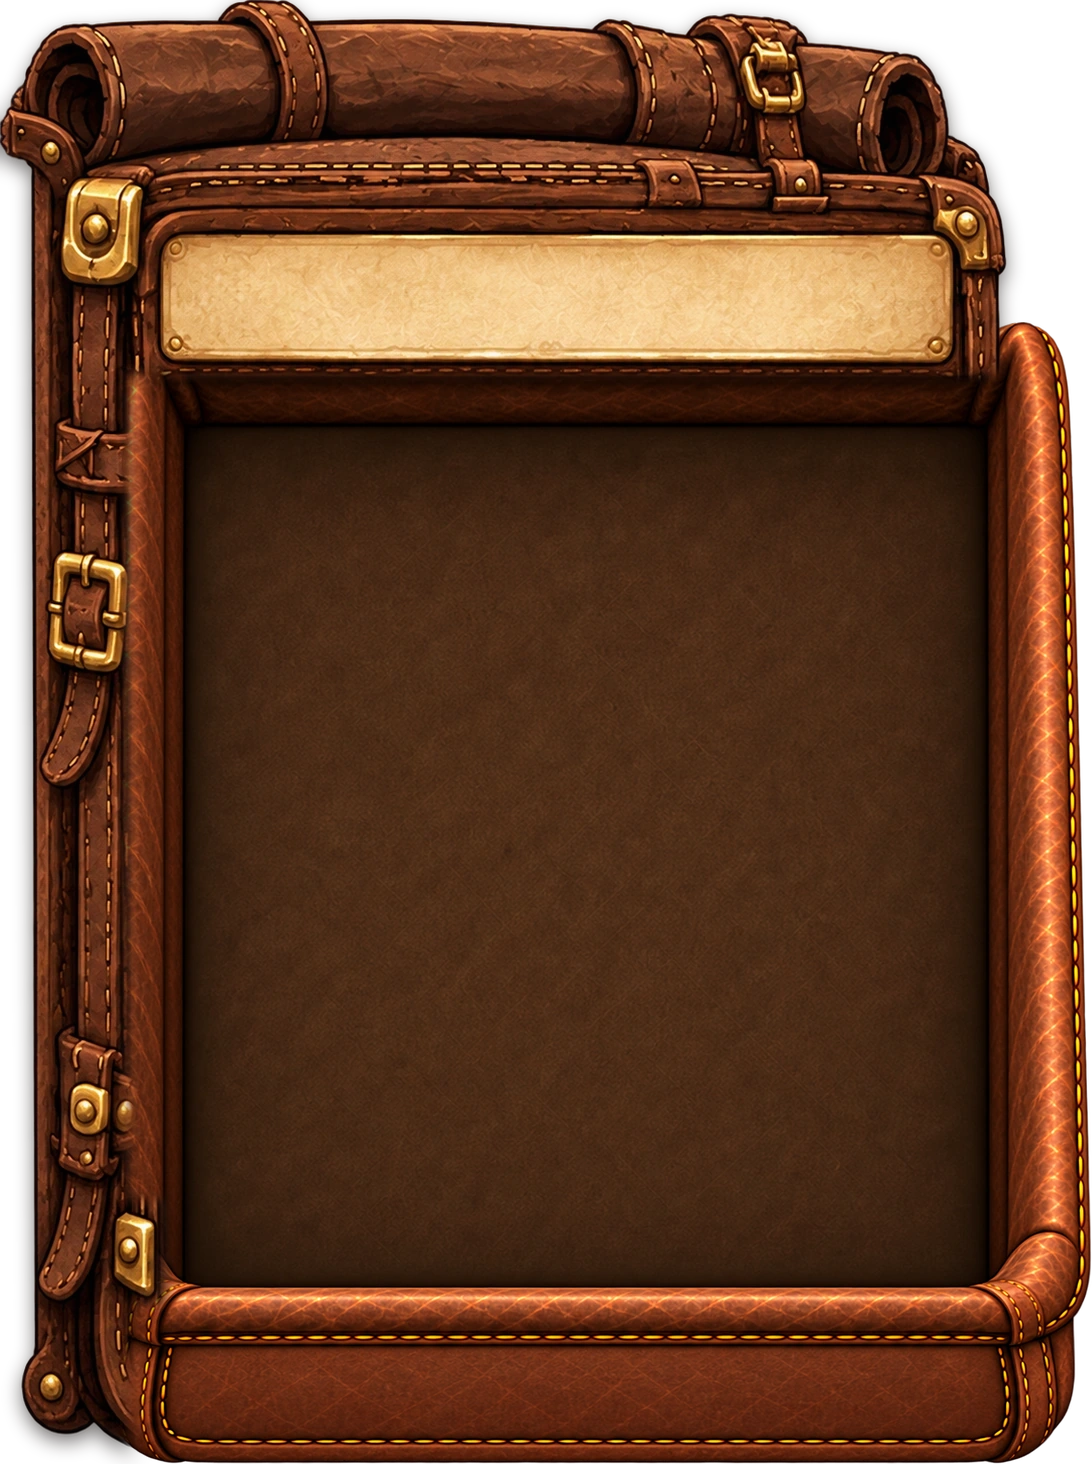
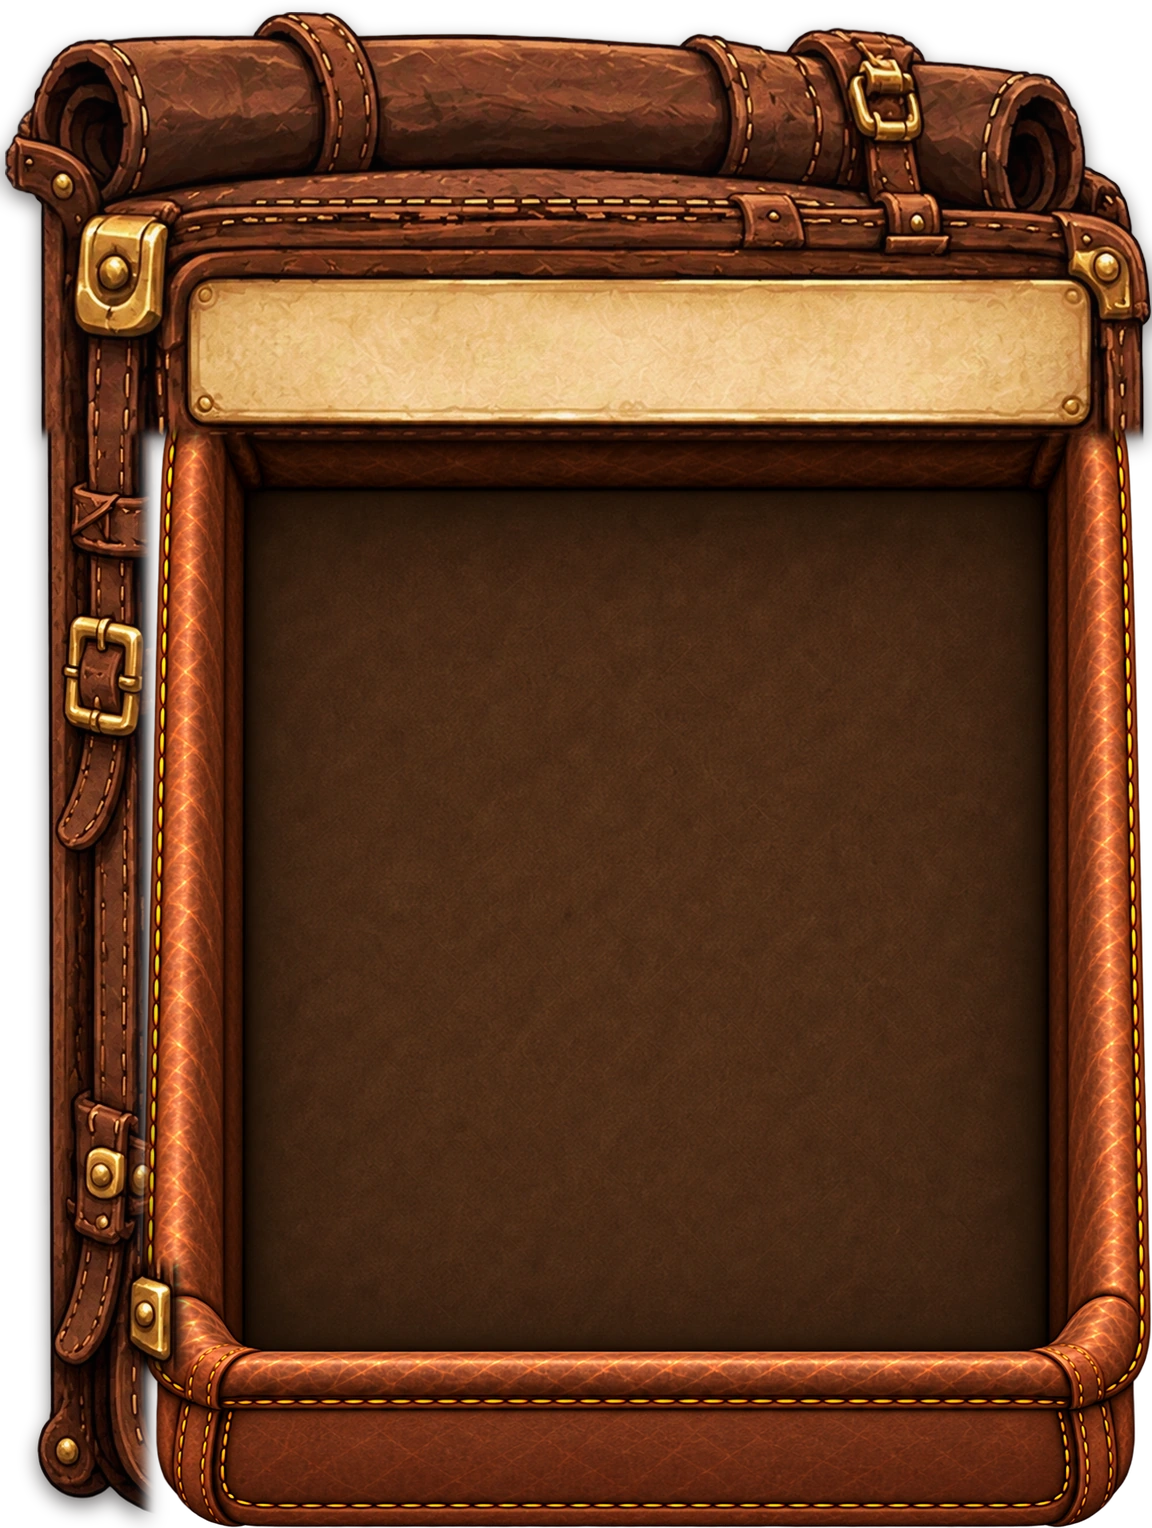
v378: backpack header scaled to meet the body's stitching, body moved clear of the spine
Claude-Session: https://claude.ai/code/session_01VobLTE1x2bdEWSaM1Fw7Gx

diff --git a/index.html b/index.html
@@ -383,16 +383,20 @@ body:not(.touch):not(.building) #bar .slot .cdn { left: 8px; top: 8px; width: 76
    second mockup) */
 #inv { position: fixed; inset: 0; z-index: 5; pointer-events: none; -webkit-user-select: none; user-select: none; }
 #inv > section, #inv #invInfo { pointer-events: auto; }
-#invGroup { left: calc(16px * var(--ui)); top: calc(56px * var(--ui)); width: 944px; height: 732px; transform: scale(var(--ui)); transform-origin: top left; }
+#invGroup { left: calc(16px * var(--ui)); top: calc(56px * var(--ui)); width: 966px; height: 732px; transform: scale(var(--ui)); transform-origin: top left; }
 #invGroup .folio { position: absolute; left: 0; top: 68px; width: 450px; height: 664px; z-index: 1; isolation: isolate; }
-#invGroup .backpack { position: absolute; left: 398px; top: 0; width: 546px; height: 732px; z-index: 2; isolation: isolate; }
+#invGroup .backpack { position: absolute; left: 398px; top: 0; width: 568px; height: 732px; z-index: 2; isolation: isolate; }
 .invDrag { touch-action: none; }
 .folio-title { left: 48px; top: 42px; width: 328px; text-align: center; }
-.backpack-title { left: 126px; top: 134px; width: 196px; }
+/* (v378, Jordan: the header and bedroll scaled up 1.14 about the header's bottom-left strap, backpack-local 40,186, so
+   its right stitching meets the body's; the body moved 22px right of the spine so its left stitching shows. The
+   shell image reaches 8px left of the backpack and 32px over it. Header controls scaled the same.) */
+#invGroup .backpack .shell { inset: auto; left: -8px; top: -32px; width: 576px; height: 764px; }
+.backpack-title { left: 138px; top: 126.7px; width: 223px; font-size: 31.9px !important; line-height: 52.4px !important; }
 .folio .close { left: 365px; top: 32px; }
-.backpack .close { left: 440px; top: 140px; }
-.crest-pack { position: absolute; left: 88px; top: 140px; width: 30px; height: 30px; object-fit: contain; pointer-events: none; }
-.backpack .capacity { position: absolute; left: 344px; top: 144px; width: 88px; font-size: 20px; line-height: 28px; text-align: right; padding-right: 8px; box-sizing: border-box; }
+.backpack .close { left: 495.8px; top: 133.6px; width: 31.9px; height: 31.9px; font-size: 28.5px; line-height: 25px; }
+.crest-pack { position: absolute; left: 94.7px; top: 133.6px; width: 34.2px; height: 34.2px; object-fit: contain; pointer-events: none; }
+.backpack .capacity { position: absolute; left: 386.4px; top: 138.1px; width: 100.3px; font-size: 22.8px; line-height: 31.9px; text-align: right; padding-right: 9.1px; box-sizing: border-box; }
 .folio .armor { position: absolute; left: 48px; top: 84px; width: 328px; text-align: center; font-size: 17px; line-height: 22px; font-weight: 600; color: #6a4526; }
 .character-preview { position: absolute; left: 132px; top: 224px; width: 200px; height: 292px; pointer-events: none; image-rendering: pixelated; }
 #doll { position: absolute; inset: 0; display: block; }
@@ -411,7 +415,7 @@ body:not(.touch):not(.building) #bar .slot .cdn { left: 8px; top: 8px; width: 76
    (backpack-local 40,160, 506x572) under the old bedroll/header and left spine, cut from inventory-backpack.webp and
    composed offline (docs/ui-reskin/backpack-delta-v1/compose-shell.py). Twenty live 90x74 cells at 101,224 (8px gaps),
    each painted with the cell art; states are flat tints through the slot mask on ::before. */
-#pack.pack-grid { position: absolute; left: 101px; top: 224px; display: grid; grid-template-columns: repeat(4, 90px); grid-template-rows: repeat(5, 74px); gap: 8px; }
+#pack.pack-grid { position: absolute; left: 123px; top: 224px; display: grid; grid-template-columns: repeat(4, 90px); grid-template-rows: repeat(5, 74px); gap: 8px; }
 #pack .cell { width: 90px; height: 74px; padding: 5px 8px; --cell: 64px; --tint: transparent; background: url("ui/backpack/backpack-cell.webp") center / 100% 100% no-repeat; }
 #pack .cell::before { background: var(--tint); -webkit-mask: url("ui/backpack/backpack-slot-mask.webp") center / 100% 100% no-repeat; mask: url("ui/backpack/backpack-slot-mask.webp") center / 100% 100% no-repeat; filter: none; transition: background-color 90ms linear; }
 #pack .cell:hover { --tint: rgba(255, 221, 155, 0.14); }
@@ -429,9 +433,9 @@ body:not(.touch):not(.building) #bar .slot .cdn { left: 8px; top: 8px; width: 76
 #inv .invAct::after { background: var(--tint); transition: background-color 90ms linear; }
 #inv .invAct > img { position: absolute; left: 4px; top: 5px; width: 40px; height: 40px; pointer-events: none; }
 #inv .invAct > span { position: absolute; left: 46px; top: 4px; width: 68px; height: 42px; display: flex; align-items: center; justify-content: center; text-align: center; font: 600 13.5px/1.1 var(--wk); color: #f6e6c8; text-shadow: 0 1px 2px #120905; pointer-events: none; }
-#refineBtn { left: 95px; }
-#stashBtn { left: 227px; }
-#inv #trash { left: 371px; cursor: default; --base: rgba(130, 22, 20, 0.42); }
+#refineBtn { left: 117px; }
+#stashBtn { left: 249px; }
+#inv #trash { left: 393px; cursor: default; --base: rgba(130, 22, 20, 0.42); }
 #inv #trash > span { font-size: 12px; line-height: 1.15; }
 #inv .invAct:hover { --tint: rgba(255, 221, 155, 0.14); }
 #inv .invAct:active { --tint: rgba(229, 173, 64, 0.25); }
@@ -439,7 +443,7 @@ body:not(.touch):not(.building) #bar .slot .cdn { left: 8px; top: 8px; width: 76
 #inv #trash.drop { --tint: rgba(112, 169, 93, 0.22); }
 #inv .invAct.off { opacity: 1; cursor: default; --tint: rgba(25, 21, 20, 0.45); }
 #inv .invAct.off > img, #inv .invAct.off > span { opacity: 0.55; }
-#inv #invInfo { position: absolute; left: 0; top: 744px; width: 944px; max-width: none; min-height: 0; margin: 0; font: 20px/1.3 var(--wk); color: #f6e8cc; text-shadow: 0 1px 2px #000, 0 0 6px #140b0a; }
+#inv #invInfo { position: absolute; left: 0; top: 744px; width: 966px; max-width: none; min-height: 0; margin: 0; font: 20px/1.3 var(--wk); color: #f6e8cc; text-shadow: 0 1px 2px #000, 0 0 6px #140b0a; }
 #inv #invInfo b { font: 600 20px var(--wk); color: #ffd98a; }
 
 /* a refining station (Wanderer's Kit refining frames v1, v343): its own 800x480 window, top right, one painted frame a
@@ -17971,7 +17975,7 @@ function frameBody(now) {
 }
 // The error box: the first time each error comes up, its message and where it happened (the top of its stack) are
 // shown top middle, with a COPY button, so it can be passed on from a browser with no console to hand
-const GAME_VERSION = 377, crashSeen = new Map();
+const GAME_VERSION = 378, crashSeen = new Map();
 function showCrash(err) {
   const msg = String(err && err.message || err), key = msg + (err && err.stack ? err.stack.split('\n')[1] : '');
   const n = (crashSeen.get(key) || 0) + 1;

diff --git a/docs/ui-reskin/backpack-delta-v1/compose-shell.py b/docs/ui-reskin/backpack-delta-v1/compose-shell.py
@@ -1,23 +1,35 @@
-# compose the backpack shell: new recessed body (Wanderer's Kit backpack delta v1.1) under the retained
-# bedroll/header and left spine of the old inventory-backpack art
+# compose the backpack shell (v378): the kit's recessed body (Wanderer's Kit backpack delta v1.1) moved BODY_DX right,
+# under the old inventory-backpack art's left spine (as it was) and its bedroll/header scaled up by S about the
+# header's bottom-left strap (80, 372 in the old 2x art), so the header's right stitching lines up with the body's
+# right rim. The canvas grows OX left and OY up to hold the bigger header. Usage: compose2.py old.png body@2x.png out.png
 import sys
 from PIL import Image, ImageDraw, ImageFilter, ImageChops
 old = Image.open(sys.argv[1]).convert('RGBA')          # 1012 x 1464 (2x of 506 x 732)
 body = Image.open(sys.argv[2]).convert('RGBA')         # 1012 x 1144 (2x of 506 x 572)
-HEAD_Y, SPINE_X, F = int(sys.argv[4]), int(sys.argv[5]), 5
-W, H = 1092, 1464
-m = Image.new('L', old.size, 0); d = ImageDraw.Draw(m)
-d.rectangle((0, 0, old.size[0], HEAD_Y), fill=255)
-d.rectangle((0, 0, SPINE_X, old.size[1]), fill=255)
-d.rectangle((0, 1200, 162, 1302), fill=255)   # the small brass plate low on the spine sits over the old frame
-m = m.filter(ImageFilter.GaussianBlur(F))
-a = ImageChops.multiply(old.getchannel('A'), m)
-keep = old.copy(); keep.putalpha(a)
+HEAD_Y, SPINE_X, F = 372, 128, 5
+BODY_DX = 44                                           # 2x px (22 logical)
+AX, AY = 80, HEAD_Y
+S = (80 + BODY_DX + 993 - AX) / (990 - AX)             # body right rim stitch (x 993 in the body art) / header strap stitch (990, by eye)
+OX, OY = 16, 64
+W, H = 1092 + BODY_DX + OX, 1464 + OY
+def feathered(boxes):
+    m = Image.new('L', old.size, 0); d = ImageDraw.Draw(m)
+    for b in boxes: d.rectangle(b, fill=255)
+    m = m.filter(ImageFilter.GaussianBlur(F))
+    k = old.copy(); k.putalpha(ImageChops.multiply(old.getchannel('A'), m)); return k
+head = feathered([(0, 0, old.size[0], HEAD_Y)])
+spine = feathered([(0, HEAD_Y - 12, SPINE_X, old.size[1]), (0, 1200, 162, 1302)])
+hw, hh = round(old.size[0] * S), round(old.size[1] * S)
+head = head.resize((hw, hh), Image.LANCZOS)
+hx, hy = round(AX + OX - AX * S), round(AY + OY - AY * S)
 out = Image.new('RGBA', (W, H), (0, 0, 0, 0))
-out.alpha_composite(body, (80, 320))
-sh = Image.new('RGBA', (W, H), (12, 6, 3, 0))
-sa = Image.new('L', (W, H), 0); sa.paste(a, (0, 8)); sa = sa.filter(ImageFilter.GaussianBlur(9)).point(lambda v: int(v * 0.55))
-sh.putalpha(sa)
-out.alpha_composite(sh)
-out.alpha_composite(keep, (0, 0))
+out.alpha_composite(body, (80 + BODY_DX + OX, 320 + OY))
+over = Image.new('RGBA', (W, H), (0, 0, 0, 0))
+over.alpha_composite(spine, (OX, OY))
+hc = Image.new('RGBA', (W, H), (0, 0, 0, 0)); hc.paste(head, (hx, hy), head)
+over.alpha_composite(hc)
+sa = Image.new('L', (W, H), 0); sa.paste(over.getchannel('A'), (0, 8)); sa = sa.filter(ImageFilter.GaussianBlur(9)).point(lambda v: int(v * 0.55))
+sh = Image.new('RGBA', (W, H), (12, 6, 3, 0)); sh.putalpha(sa)
+out.alpha_composite(sh); out.alpha_composite(over)
 out.save(sys.argv[3])
+print('S', S, 'size', W, H, 'head at', hx, hy)

diff --git a/README.md b/README.md
@@ -289,6 +289,8 @@ Everything is now made of refined materials: floors and doors of planks, stone f
 
 **v354:** the minimap plate capitalises a place name's first word (plateName). **v355:** refining slot counts sit inside the slot's well (right 24, bottom 19), clear of the corner rivets. Character view defaults from Jordan's tuning (fov 20, dist 4.15, lift 1.23).
 
+**v378:** Backpack shell recomposed (Jordan): header + bedroll scaled 1.14 about the header's bottom-left strap (backpack-local 40,186) so its right stitching meets the body's rim stitching; body (and grid/buttons) 22px right so its left rim stitching shows past the spine. Shell 1152x1528 (576x764 at -8,-32), backpack 568 wide, group 966; header title/crest/count/close scaled the same. compose-shell.py is the new script.
+
 **v377:** Window glass that seems to let light in (Jordan): panes go into their own mesh per story (into 'glass' -> GLASSB = bufGlass while building; ch.glass / ch.glass1..3, visibility with their story) drawn with windowMat: both faces lit as the sunward face is (shadow test + GI gather on that side: transfer), point lights shine through from either side (glow: lit windows at night with a fire inside), Schlick sky sheen; casts no shadow, so sunlight falls through onto the floor. GI no longer sees the walls' own triangles: wallGI swaps every room wall for slabs (WALL_GI: full walls, windows as sill + wall over, doorways as lintel) in ch.buildGI (giGeo), so the sky and bounce light come in through windows and doorways. T > Windows (GLASS_FX). Hook GAME.glassInfo; test t_glass.js.
 
 **v376:** Build mode on your claimed plot (Jordan): the grass is cleared off the plot you stand on (updateGrassHide: grassTex quarter masks put aside in grassHidden and zeroed, restored on leaving build mode or the plot; grassChunk re-hides rebuilt tiles), and the story grid draws on the ground story too (only while on a claimed plot). Test t_bgrid.js.
